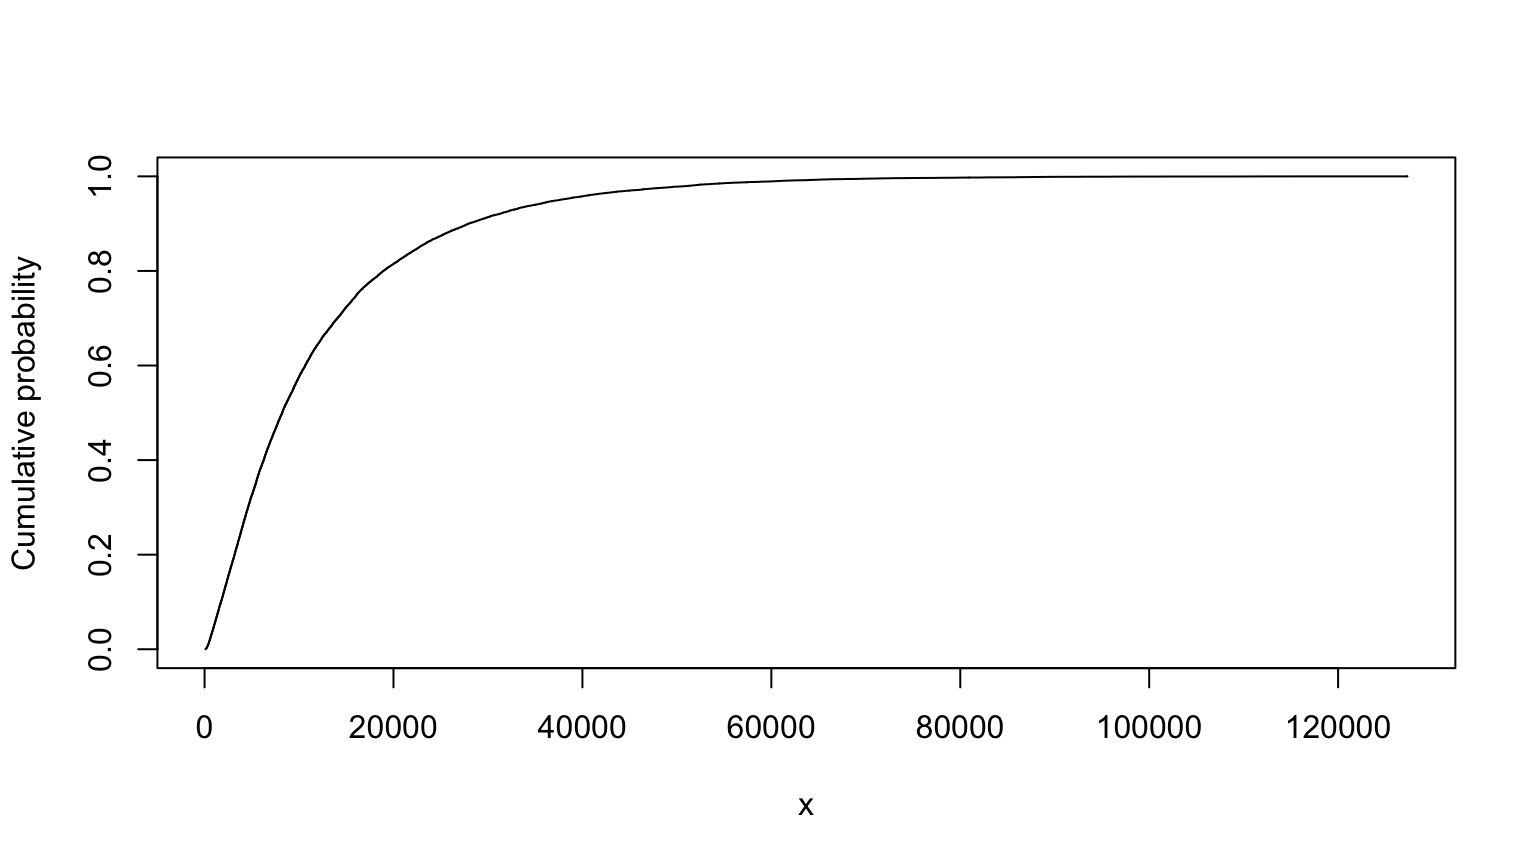
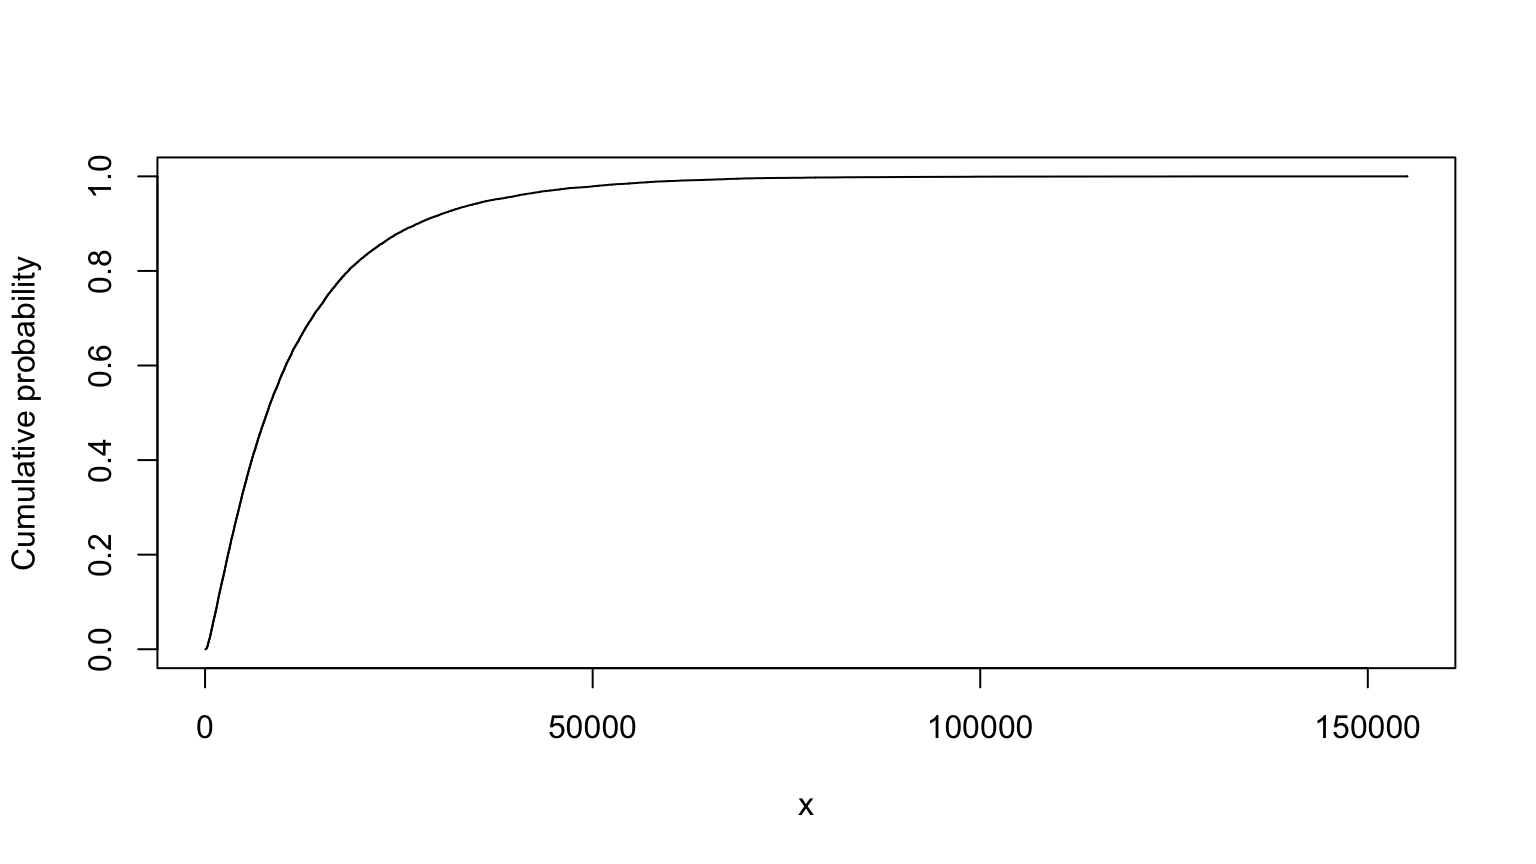
build_analysis_site() for release 1.0.3

diff --git a/docs/workshop.html b/docs/workshop.html
@@ -419,25 +419,25 @@ T &lt;- (n + BD * foc * Koc) * L / (K * i) # all variables assumed independent
 summary(T)</code></pre>
 <pre><code>## 
 ## Monte Carlo distribution summary
-##   Mean: 13006.07
-##   Variance: 234918230
-##   Std Deviation: 15327.04
-##   Width of interquartile range: 12634.45
-##   Width of overall range: 242796.5
+##   Mean: 13116.06
+##   Variance: 248166977
+##   Std Deviation: 15753.32
+##   Width of interquartile range: 12860.71
+##   Width of overall range: 228305.9
 ##   Order statistics
-##      Left (min) value: -5608.701
-##      1st percentile: 345.0594
-##      5th percentile: 937.812
-##      25th percentile: 3755.253
-##      Median (50th%ile): 8215.618
-##      75th percentile: 16389.7
-##      95th percentile: 40515.36
-##      99th percentile: 74091.62
-##      Right (max) value: 237187.8
+##      Left (min) value: -1591.6
+##      1st percentile: 336.1636
+##      5th percentile: 897.8828
+##      25th percentile: 3632.825
+##      Median (50th%ile): 8172.007
+##      75th percentile: 16493.53
+##      95th percentile: 41324.6
+##      99th percentile: 78175.15
+##      Right (max) value: 226714.3
 ##   Replications: 20000</code></pre>
 <pre class="r"><code>T</code></pre>
 <p><img src="workshop_files/figure-html/T-1.png" width="768" /></p>
-<pre><code>## MC (min=-5608.70126111165, median=8215.61819086565, mean=13006.0731331664, max=237187.796825478)</code></pre>
+<pre><code>## MC (min=-1591.60018518469, median=8172.00742754993, mean=13116.0644980112, max=226714.337542848)</code></pre>
 <pre class="r"><code># nolint end</code></pre>
 <p>Truncated version, from slide 40:</p>
 <pre class="r"><code># nolint start
@@ -457,25 +457,25 @@ T &lt;- (n + BD * foc * Koc) * L / (K * i)
 summary(T)</code></pre>
 <pre><code>## 
 ## Monte Carlo distribution summary
-##   Mean: 12277.8
-##   Variance: 159017126
-##   Std Deviation: 12610.2
-##   Width of interquartile range: 12240.71
-##   Width of overall range: 127222
+##   Mean: 12017.63
+##   Variance: 158365065
+##   Std Deviation: 12584.32
+##   Width of interquartile range: 12197.53
+##   Width of overall range: 155036.6
 ##   Order statistics
-##      Left (min) value: 100.1755
-##      1st percentile: 390.0766
-##      5th percentile: 1006.849
-##      25th percentile: 3884.616
-##      Median (50th%ile): 8226.517
-##      75th percentile: 16125.32
-##      95th percentile: 37569.44
-##      99th percentile: 60725.12
-##      Right (max) value: 127322.2
+##      Left (min) value: 55.87855
+##      1st percentile: 378.9489
+##      5th percentile: 961.1276
+##      25th percentile: 3675.235
+##      Median (50th%ile): 8010.397
+##      75th percentile: 15872.76
+##      95th percentile: 37106.85
+##      99th percentile: 59714.01
+##      Right (max) value: 155092.5
 ##   Replications: 20000</code></pre>
 <pre class="r"><code>T</code></pre>
 <p><img src="workshop_files/figure-html/T_truncated-1.png" width="768" /></p>
-<pre><code>## MC (min=100.175461058737, median=8226.51735397964, mean=12277.8038969671, max=127322.217443664)</code></pre>
+<pre><code>## MC (min=55.8785539486899, median=8010.39652219142, mean=12017.6313223363, max=155092.51753668)</code></pre>
 <pre class="r"><code># nolint end</code></pre>
 <p>Maximum entropy version, from slide 70:</p>
 <p>T and Tind are pretty similar. In this case, the maximum entropy approach comes up with a similar distribution as the truncated approach.</p>
@@ -492,25 +492,25 @@ Tind &lt;- (n + BD * foc * Koc) * L / (K * i)
 summary(Tind)</code></pre>
 <pre><code>## 
 ## Monte Carlo distribution summary
-##   Mean: 13931.94
-##   Variance: 235839213
-##   Std Deviation: 15357.06
-##   Width of interquartile range: 15026.15
-##   Width of overall range: 177332.9
+##   Mean: 13940.97
+##   Variance: 225322061
+##   Std Deviation: 15010.73
+##   Width of interquartile range: 15379.63
+##   Width of overall range: 161517.5
 ##   Order statistics
-##      Left (min) value: 82.6157
-##      1st percentile: 356.1792
-##      5th percentile: 958.111
-##      25th percentile: 3684.889
-##      Median (50th%ile): 8376.99
-##      75th percentile: 18711.04
-##      95th percentile: 45282.27
-##      99th percentile: 72366.85
-##      Right (max) value: 177415.6
+##      Left (min) value: 77.79182
+##      1st percentile: 367.0371
+##      5th percentile: 976.763
+##      25th percentile: 3650.776
+##      Median (50th%ile): 8616.895
+##      75th percentile: 19030.4
+##      95th percentile: 44762.51
+##      99th percentile: 70383.04
+##      Right (max) value: 161595.3
 ##   Replications: 20000</code></pre>
 <pre class="r"><code>Tind</code></pre>
 <p><img src="workshop_files/figure-html/Tind-1.png" width="768" /></p>
-<pre><code>## MC (min=82.6156992534246, median=8376.98959165688, mean=13931.9387481766, max=177415.555157852)</code></pre>
+<pre><code>## MC (min=77.7918227768493, median=8616.89505507672, mean=13940.9664698269, max=161595.269721078)</code></pre>
 <pre class="r"><code># nolint end</code></pre>
 </div>
 <div id="probability-bounds-analysis" class="section level1">

diff --git a/docs/index.html b/docs/index.html
@@ -34,7 +34,7 @@
       </button>
       <span class="navbar-brand">
         <a class="navbar-link" href="index.html">workshop7</a>
-        <span class="version label label-default" data-toggle="tooltip" data-placement="bottom" title="">1.0.2</span>
+        <span class="version label label-default" data-toggle="tooltip" data-placement="bottom" title="">1.0.3</span>
       </span>
     </div>
 
@@ -90,10 +90,16 @@
 <h2 id="overview">Overview<a class="anchor" aria-label="anchor" href="#overview"></a>
 </h2>
 <p><strong>SRA 2021 Workshop 7:</strong> Analysis package for SRA 2021 Workshop 7: Monte Carlo simulation and probability bounds analysis in R with hardly any data.</p>
-<p>Notebooks:</p>
+</div>
+<div class="section level2">
+<h2 id="notebooks">Notebooks<a class="anchor" aria-label="anchor" href="#notebooks"></a>
+</h2>
+<p>Notebooks in this package:</p>
 <ul>
-<li>SRA Workshop 7 Notes: Notes for SRA 2021 Workshop 7, “Monte Carlo simulation and probability bounds analysis in R with hardly any data (Instructors: Ferson &amp; Grey)” held 2021-12-05</li>
-<li>SRA Workshop 7: Working notebook for SRA 2021 Workshop 7, “Monte Carlo simulation and probability bounds analysis in R with hardly any data (Instructors: Ferson &amp; Grey)”</li>
+<li>
+<a href="https://jabenninghoff.github.io/workshop7/workshop-notes.html">SRA Workshop 7 Notes</a> (2021-12-04): Notes for SRA 2021 Workshop 7, “Monte Carlo simulation and probability bounds analysis in R with hardly any data (Instructors: Ferson &amp; Grey)” held 2021-12-05.</li>
+<li>
+<a href="https://jabenninghoff.github.io/workshop7/workshop.html">SRA Workshop 7</a> (2021-12-05): Working notebook for SRA 2021 Workshop 7, “Monte Carlo simulation and probability bounds analysis in R with hardly any data (Instructors: Ferson &amp; Grey)”</li>
 </ul>
 </div>
 <div class="section level2">

diff --git a/docs/news/index.html b/docs/news/index.html
@@ -17,7 +17,7 @@
       </button>
       <span class="navbar-brand">
         <a class="navbar-link" href="../index.html">workshop7</a>
-        <span class="version label label-default" data-toggle="tooltip" data-placement="bottom" title="">1.0.2</span>
+        <span class="version label label-default" data-toggle="tooltip" data-placement="bottom" title="">1.0.3</span>
       </span>
     </div>
 
@@ -60,6 +60,11 @@
       <small>Source: <a href="https://github.com/jabenninghoff/workshop7/blob/HEAD/NEWS.md" class="external-link"><code>NEWS.md</code></a></small>
     </div>
 
+    <div class="section level2">
+<h2 class="page-header" data-toc-text="1.0.3" id="workshop7-103">workshop7 1.0.3<a class="anchor" aria-label="anchor" href="#workshop7-103"></a></h2>
+<ul><li><p>Updated README to automatically generate notebook list (with dates and links)</p></li>
+<li><p>Maintenance updates</p></li>
+</ul></div>
     <div class="section level2">
 <h2 class="page-header" data-toc-text="1.0.2" id="workshop7-102">workshop7 1.0.2<a class="anchor" aria-label="anchor" href="#workshop7-102"></a></h2>
 <ul><li>Maintenance update</li>

diff --git a/docs/404.html b/docs/404.html
@@ -32,7 +32,7 @@
       </button>
       <span class="navbar-brand">
         <a class="navbar-link" href="https://jabenninghoff.github.io/workshop7/index.html">workshop7</a>
-        <span class="version label label-default" data-toggle="tooltip" data-placement="bottom" title="">1.0.2</span>
+        <span class="version label label-default" data-toggle="tooltip" data-placement="bottom" title="">1.0.3</span>
       </span>
     </div>
 

diff --git a/docs/reference/index.html b/docs/reference/index.html
@@ -17,7 +17,7 @@
       </button>
       <span class="navbar-brand">
         <a class="navbar-link" href="../index.html">workshop7</a>
-        <span class="version label label-default" data-toggle="tooltip" data-placement="bottom" title="">1.0.2</span>
+        <span class="version label label-default" data-toggle="tooltip" data-placement="bottom" title="">1.0.3</span>
       </span>
     </div>
 

diff --git a/docs/reference/workshop7-package.html b/docs/reference/workshop7-package.html
@@ -17,7 +17,7 @@
       </button>
       <span class="navbar-brand">
         <a class="navbar-link" href="../index.html">workshop7</a>
-        <span class="version label label-default" data-toggle="tooltip" data-placement="bottom" title="">1.0.2</span>
+        <span class="version label label-default" data-toggle="tooltip" data-placement="bottom" title="">1.0.3</span>
       </span>
     </div>
 

diff --git a/docs/LICENSE-text.html b/docs/LICENSE-text.html
@@ -17,7 +17,7 @@
       </button>
       <span class="navbar-brand">
         <a class="navbar-link" href="index.html">workshop7</a>
-        <span class="version label label-default" data-toggle="tooltip" data-placement="bottom" title="">1.0.2</span>
+        <span class="version label label-default" data-toggle="tooltip" data-placement="bottom" title="">1.0.3</span>
       </span>
     </div>
 

diff --git a/docs/LICENSE.html b/docs/LICENSE.html
@@ -17,7 +17,7 @@
       </button>
       <span class="navbar-brand">
         <a class="navbar-link" href="index.html">workshop7</a>
-        <span class="version label label-default" data-toggle="tooltip" data-placement="bottom" title="">1.0.2</span>
+        <span class="version label label-default" data-toggle="tooltip" data-placement="bottom" title="">1.0.3</span>
       </span>
     </div>
 

diff --git a/docs/TODO.html b/docs/TODO.html
@@ -17,7 +17,7 @@
       </button>
       <span class="navbar-brand">
         <a class="navbar-link" href="index.html">workshop7</a>
-        <span class="version label label-default" data-toggle="tooltip" data-placement="bottom" title="">1.0.2</span>
+        <span class="version label label-default" data-toggle="tooltip" data-placement="bottom" title="">1.0.3</span>
       </span>
     </div>
 

diff --git a/docs/authors.html b/docs/authors.html
@@ -17,7 +17,7 @@
       </button>
       <span class="navbar-brand">
         <a class="navbar-link" href="index.html">workshop7</a>
-        <span class="version label label-default" data-toggle="tooltip" data-placement="bottom" title="">1.0.2</span>
+        <span class="version label label-default" data-toggle="tooltip" data-placement="bottom" title="">1.0.3</span>
       </span>
     </div>
 
